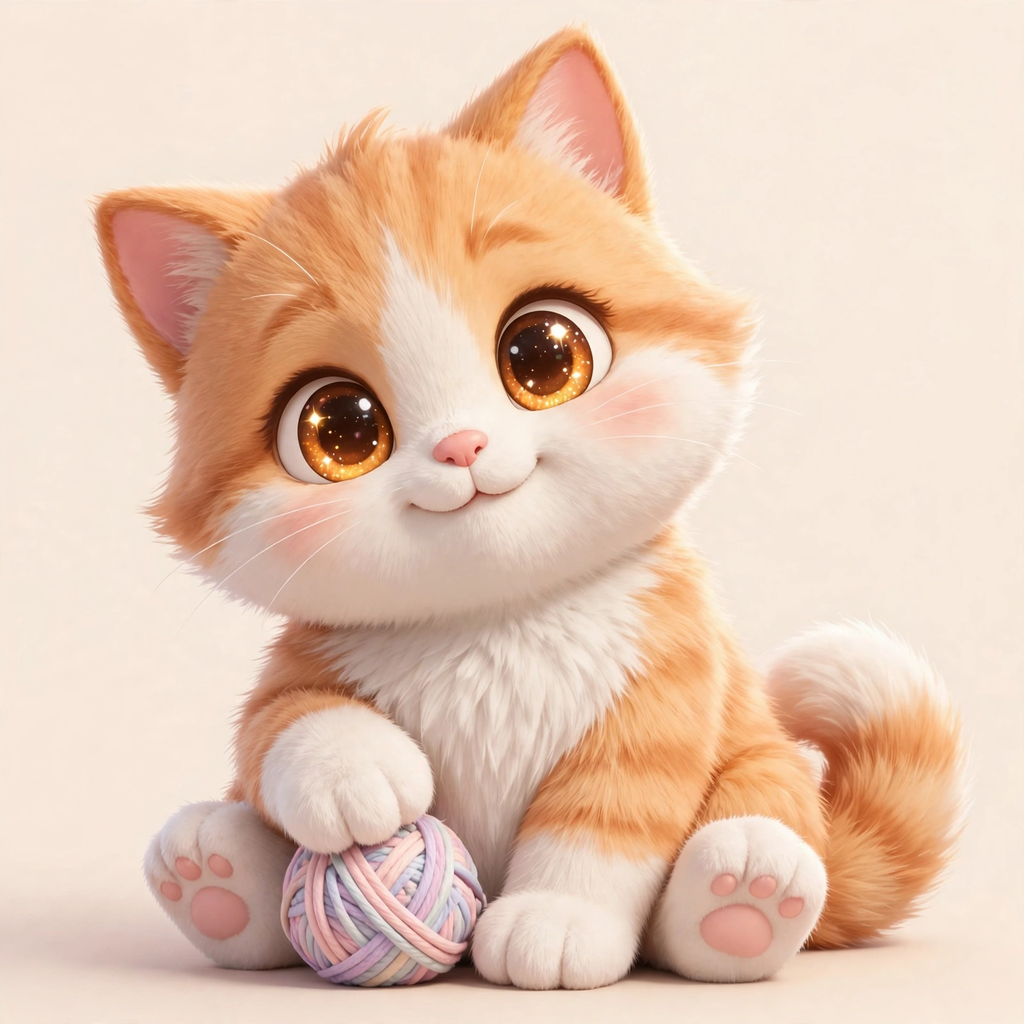
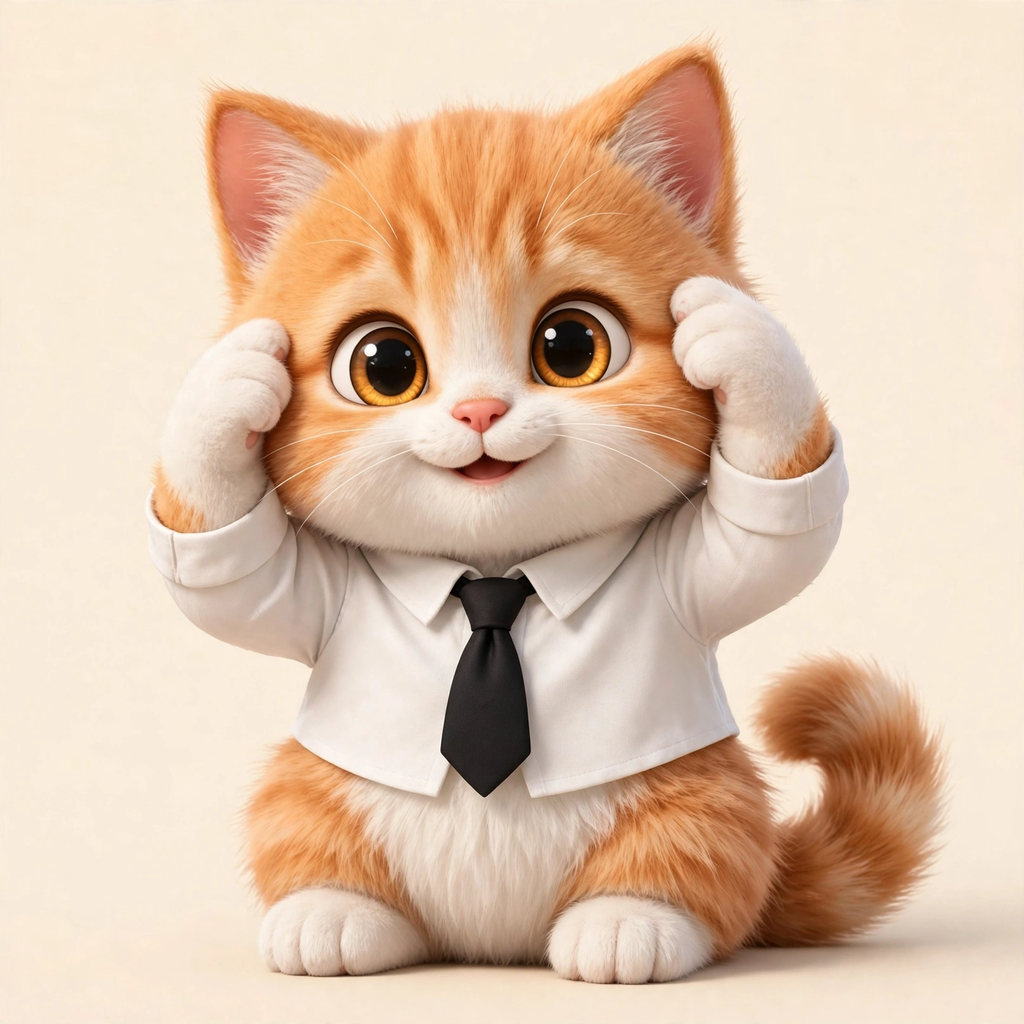
Resubmit: suit-and-tie thinking kitten from user reference

diff --git a/main.py b/main.py
@@ -1,13 +1,16 @@
 # cutest-cat-01 entry: a program that writes one picture of a cat to
 # /output/entry.png. The picture is the entry.png beside this file:
-# a 3D-rendered round ginger-and-white kitten with huge sparkling eyes,
-# head tilted, a small smile, oversized paws and a pastel ball of yarn.
-# The judge rubric ranks a clear cat subject first, then cuteness
-# (soft round shapes, big bright eyes, a smile), then charm
-# (head tilt, clumsy paws, a favourite toy), then clean craft and
-# readability at small size. This image was made for that rubric:
-# the kitten is centred, fills most of the frame, has the right
-# number of legs, ears, whiskers and one tail, and carries no text.
+# a 3D-rendered round ginger-and-white kitten in a tiny white shirt
+# and black tie, paws pressed thoughtfully to its temples, with huge
+# sparkling eyes and a small smile. It is a polished remake of a
+# reference photo the entrant supplied (a cat in a shirt and tie,
+# thinking): same joke, clean craft. The judge rubric ranks a clear
+# cat subject first, then cuteness (soft round shapes, big bright
+# eyes, a smile), then charm (the thinking pose, the suit), then
+# clean craft and readability at small size. This image was made
+# for that rubric: the kitten is centred, fills most of the frame,
+# has the right number of legs, ears, whiskers and one tail, and
+# carries no text.
 #
 # The program copies the image byte for byte, so two runs write
 # identical output. Standard library only, no network.

diff --git a/README.md b/README.md
@@ -1,8 +1,10 @@
 # Cutest cat — make.fun cutest-cat-01
 
-A 3D-rendered round ginger-and-white kitten with huge sparkling
-amber eyes, head tilted, a small smile, oversized paws and a pastel
-ball of yarn, centred on a soft cream background.
+A 3D-rendered round ginger-and-white kitten in a tiny white shirt
+and black tie, paws pressed thoughtfully to its temples, huge
+sparkling amber eyes and a small smile, centred on a soft cream
+background. A polished remake of a reference photo of a cat in a
+shirt and tie, thinking — same joke, clean craft.
 
 ## Why this cat
 
